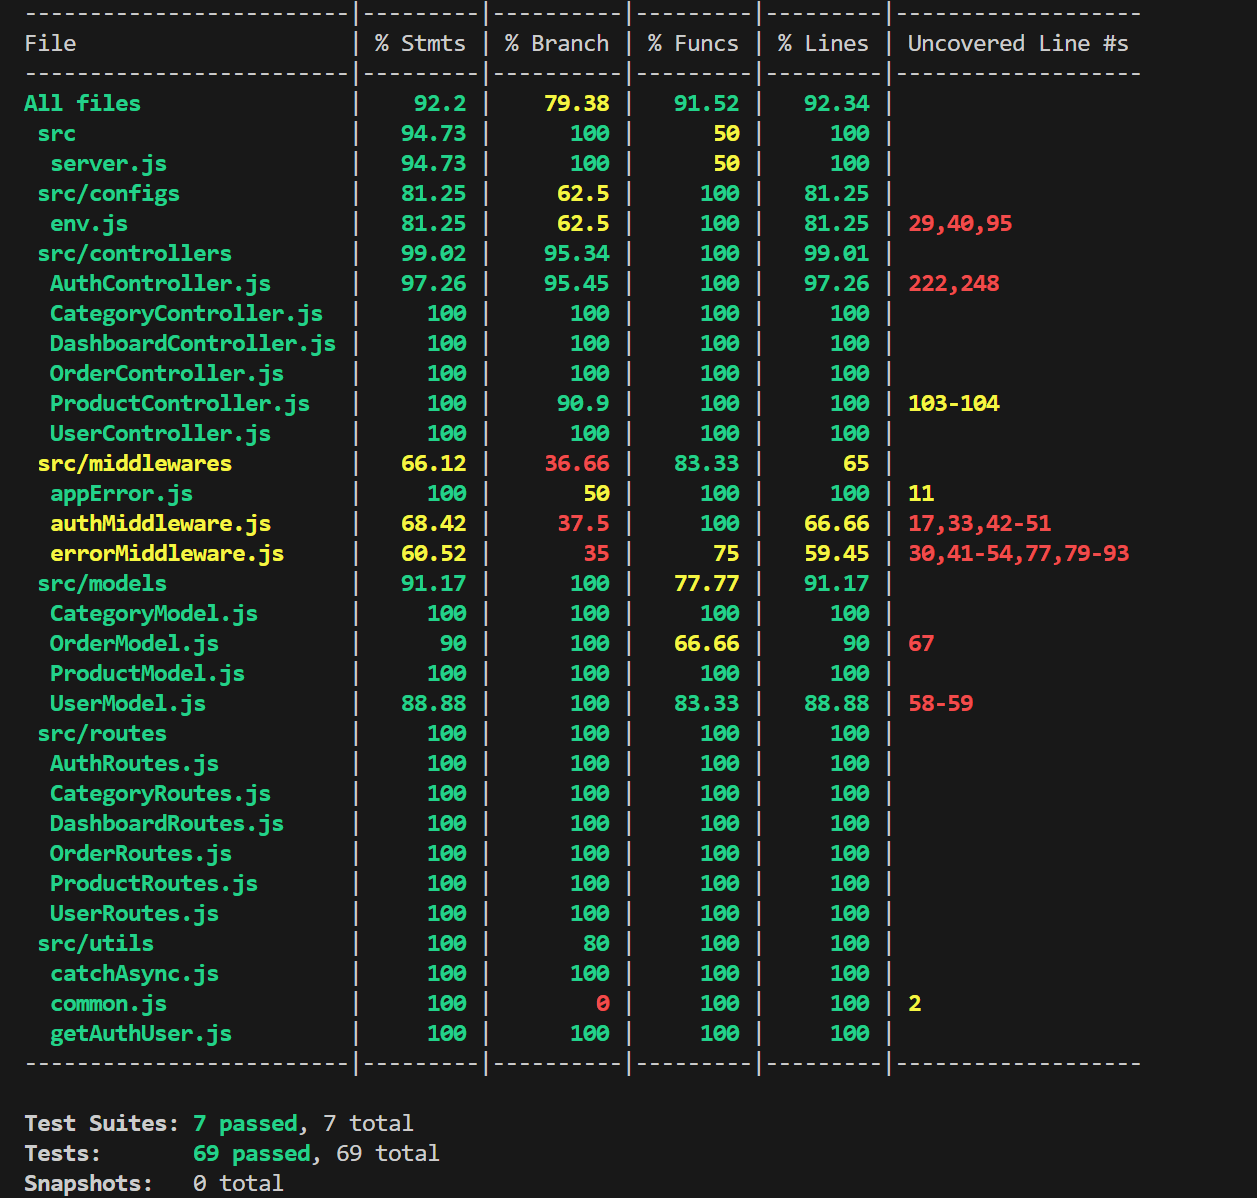
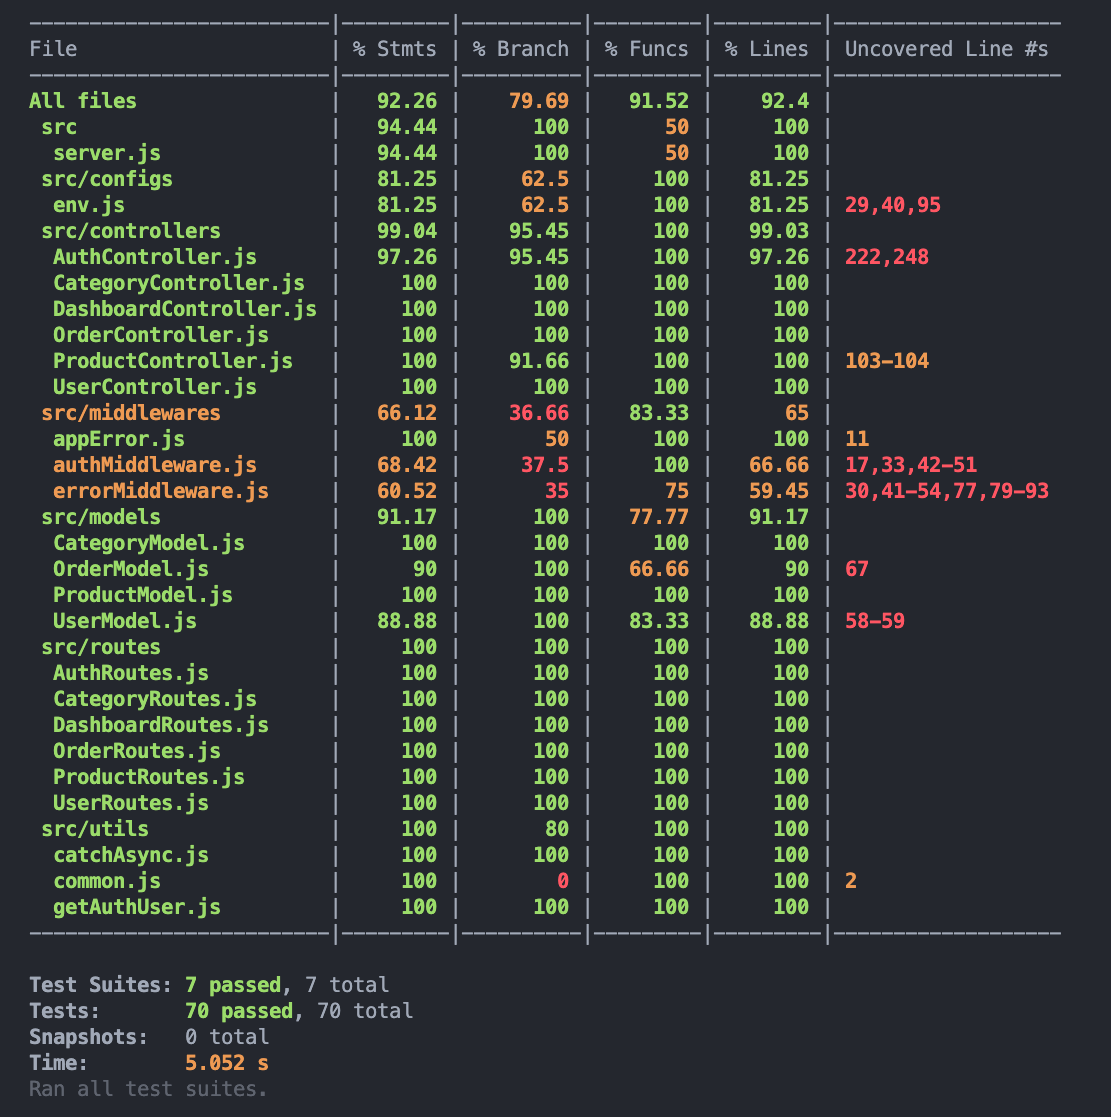
Fix bug not updating product category (#55)
* fixe bug

* update new coverage image

* replace image

Changed region(s): [[0.0, 0.0, 0.9487, 1.0]]

diff --git a/src/tests/product/product.test.js b/src/tests/product/product.test.js
@@ -283,12 +283,41 @@ describe('Products API', () => {
     // Test case 1
     it('Should return a 404 Not Found error for a non-existing product slug', async () => {
       const nonExistingSlug = 'non-existing-slug';
+
+      const updatedProductData = {
+        name: 'Test Product',
+        description: 'This is an updated description for test product',
+        price: 4.5,
+        categorySlug: 'test-category'
+      };
+
       const res = await request(app)
         .patch(`/api/products/${nonExistingSlug}`)
+        .send(updatedProductData)
         .set('Authorization', `Bearer ${global.mockUsers.adminToken}`);
 
       expect(res.statusCode).toEqual(404);
       expect(res.body.message).toEqual('Product not found');
+    });
+
+    // Test case 1
+    it('Should return a 404 Not Found error for a non-existing category slug', async () => {
+      const nonExistingSlug = 'non-existing-slug';
+
+      const updatedProductData = {
+        name: 'Test Product',
+        description: 'This is an updated description for test product',
+        price: 4.5,
+        categorySlug: 'non-existing-category'
+      };
+
+      const res = await request(app)
+        .patch(`/api/products/${nonExistingSlug}`)
+        .send(updatedProductData)
+        .set('Authorization', `Bearer ${global.mockUsers.adminToken}`);
+
+      expect(res.statusCode).toEqual(404);
+      expect(res.body.message).toEqual('No such category exists!');
     });
 
     // Test case 2
@@ -300,7 +329,8 @@ describe('Products API', () => {
       const updatedProductData = {
         name: 'Test Product',
         description: 'This is an updated description for test product',
-        price: 4.5
+        price: 4.5,
+        categorySlug: 'test-category'
       };
 
       const res = await request(app)

diff --git a/src/controllers/ProductController.js b/src/controllers/ProductController.js
@@ -185,9 +185,22 @@ export const createProduct = catchAsync(async (req, res, next) => {
 export const updateProduct = catchAsync(async (req, res, next) => {
   const { slug } = req.params;
 
+  const { categorySlug, ...rest } = req.body;
+
+  // Finding the category by its slug.
+  const category = await Category.findOne({ slug: categorySlug }).exec();
+
+  // If the category doesn't exist, return an error.
+  if (!category) {
+    return next(new AppError('No such category exists!', 404));
+  }
+
   let result = await Product.findOneAndUpdate(
     { slug: slug }, // Find by slug
-    req.body,
+    {
+      ...rest,
+      category: category._id
+    },
     {
       new: true,
       runValidators: true
